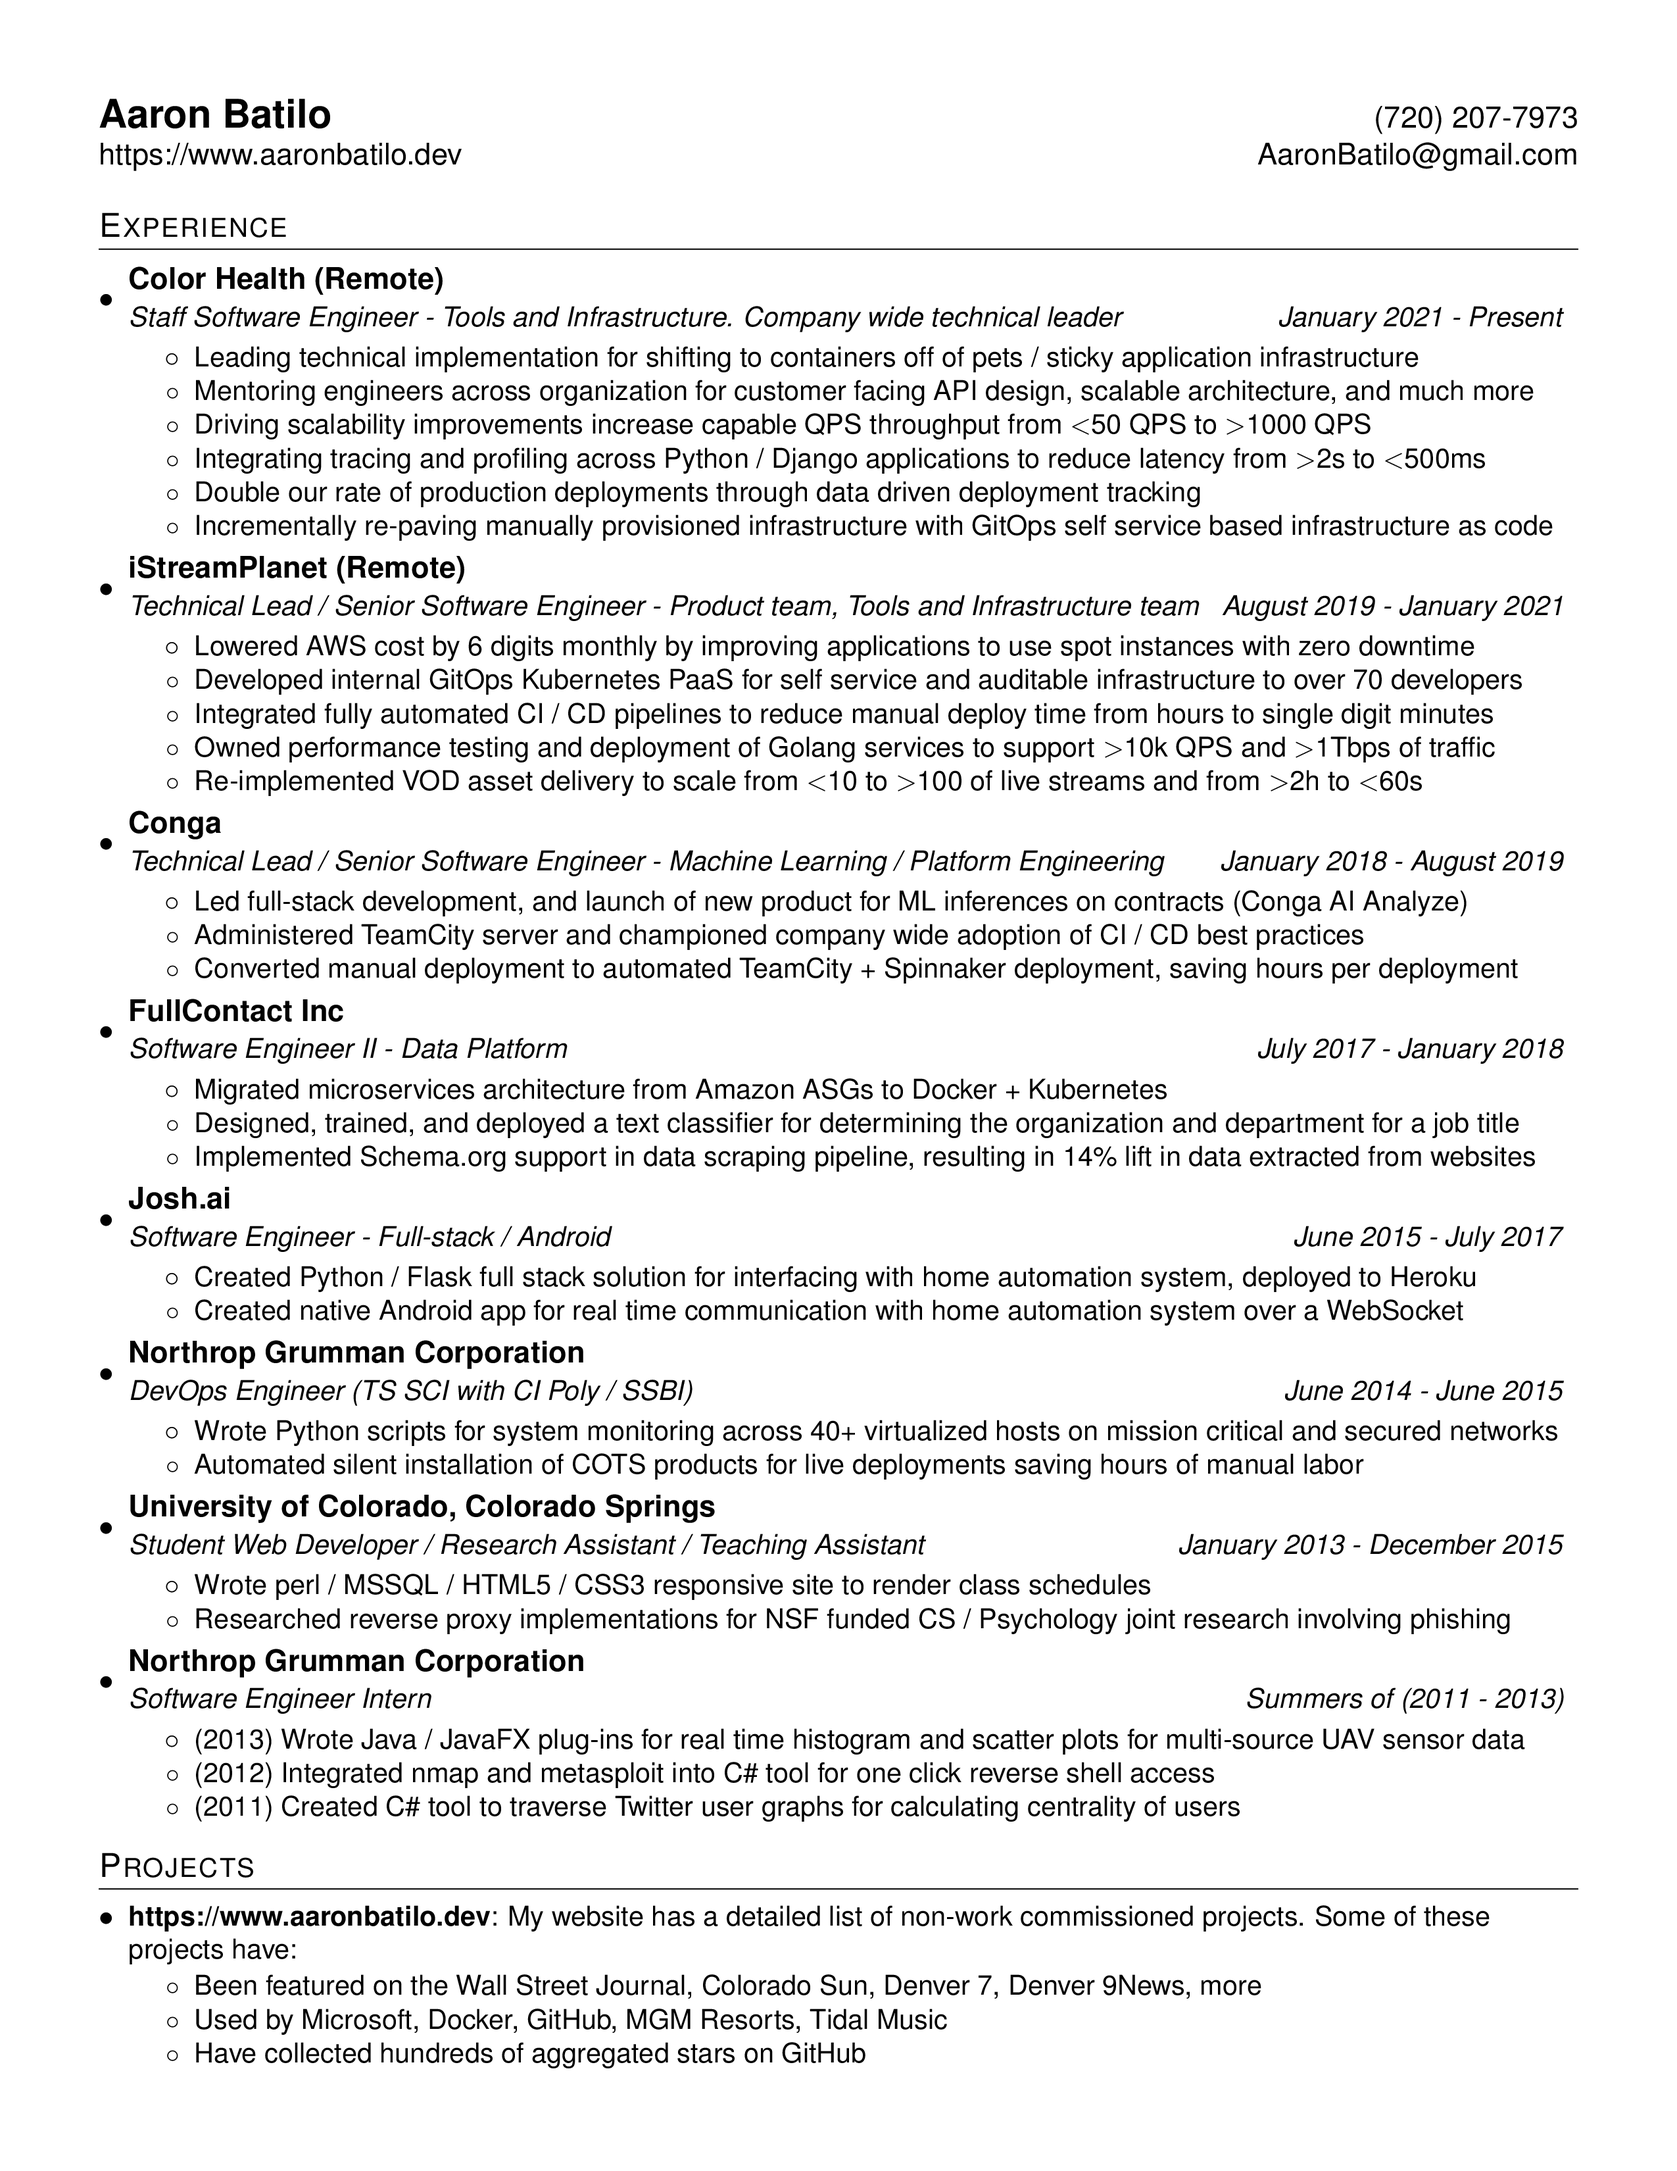
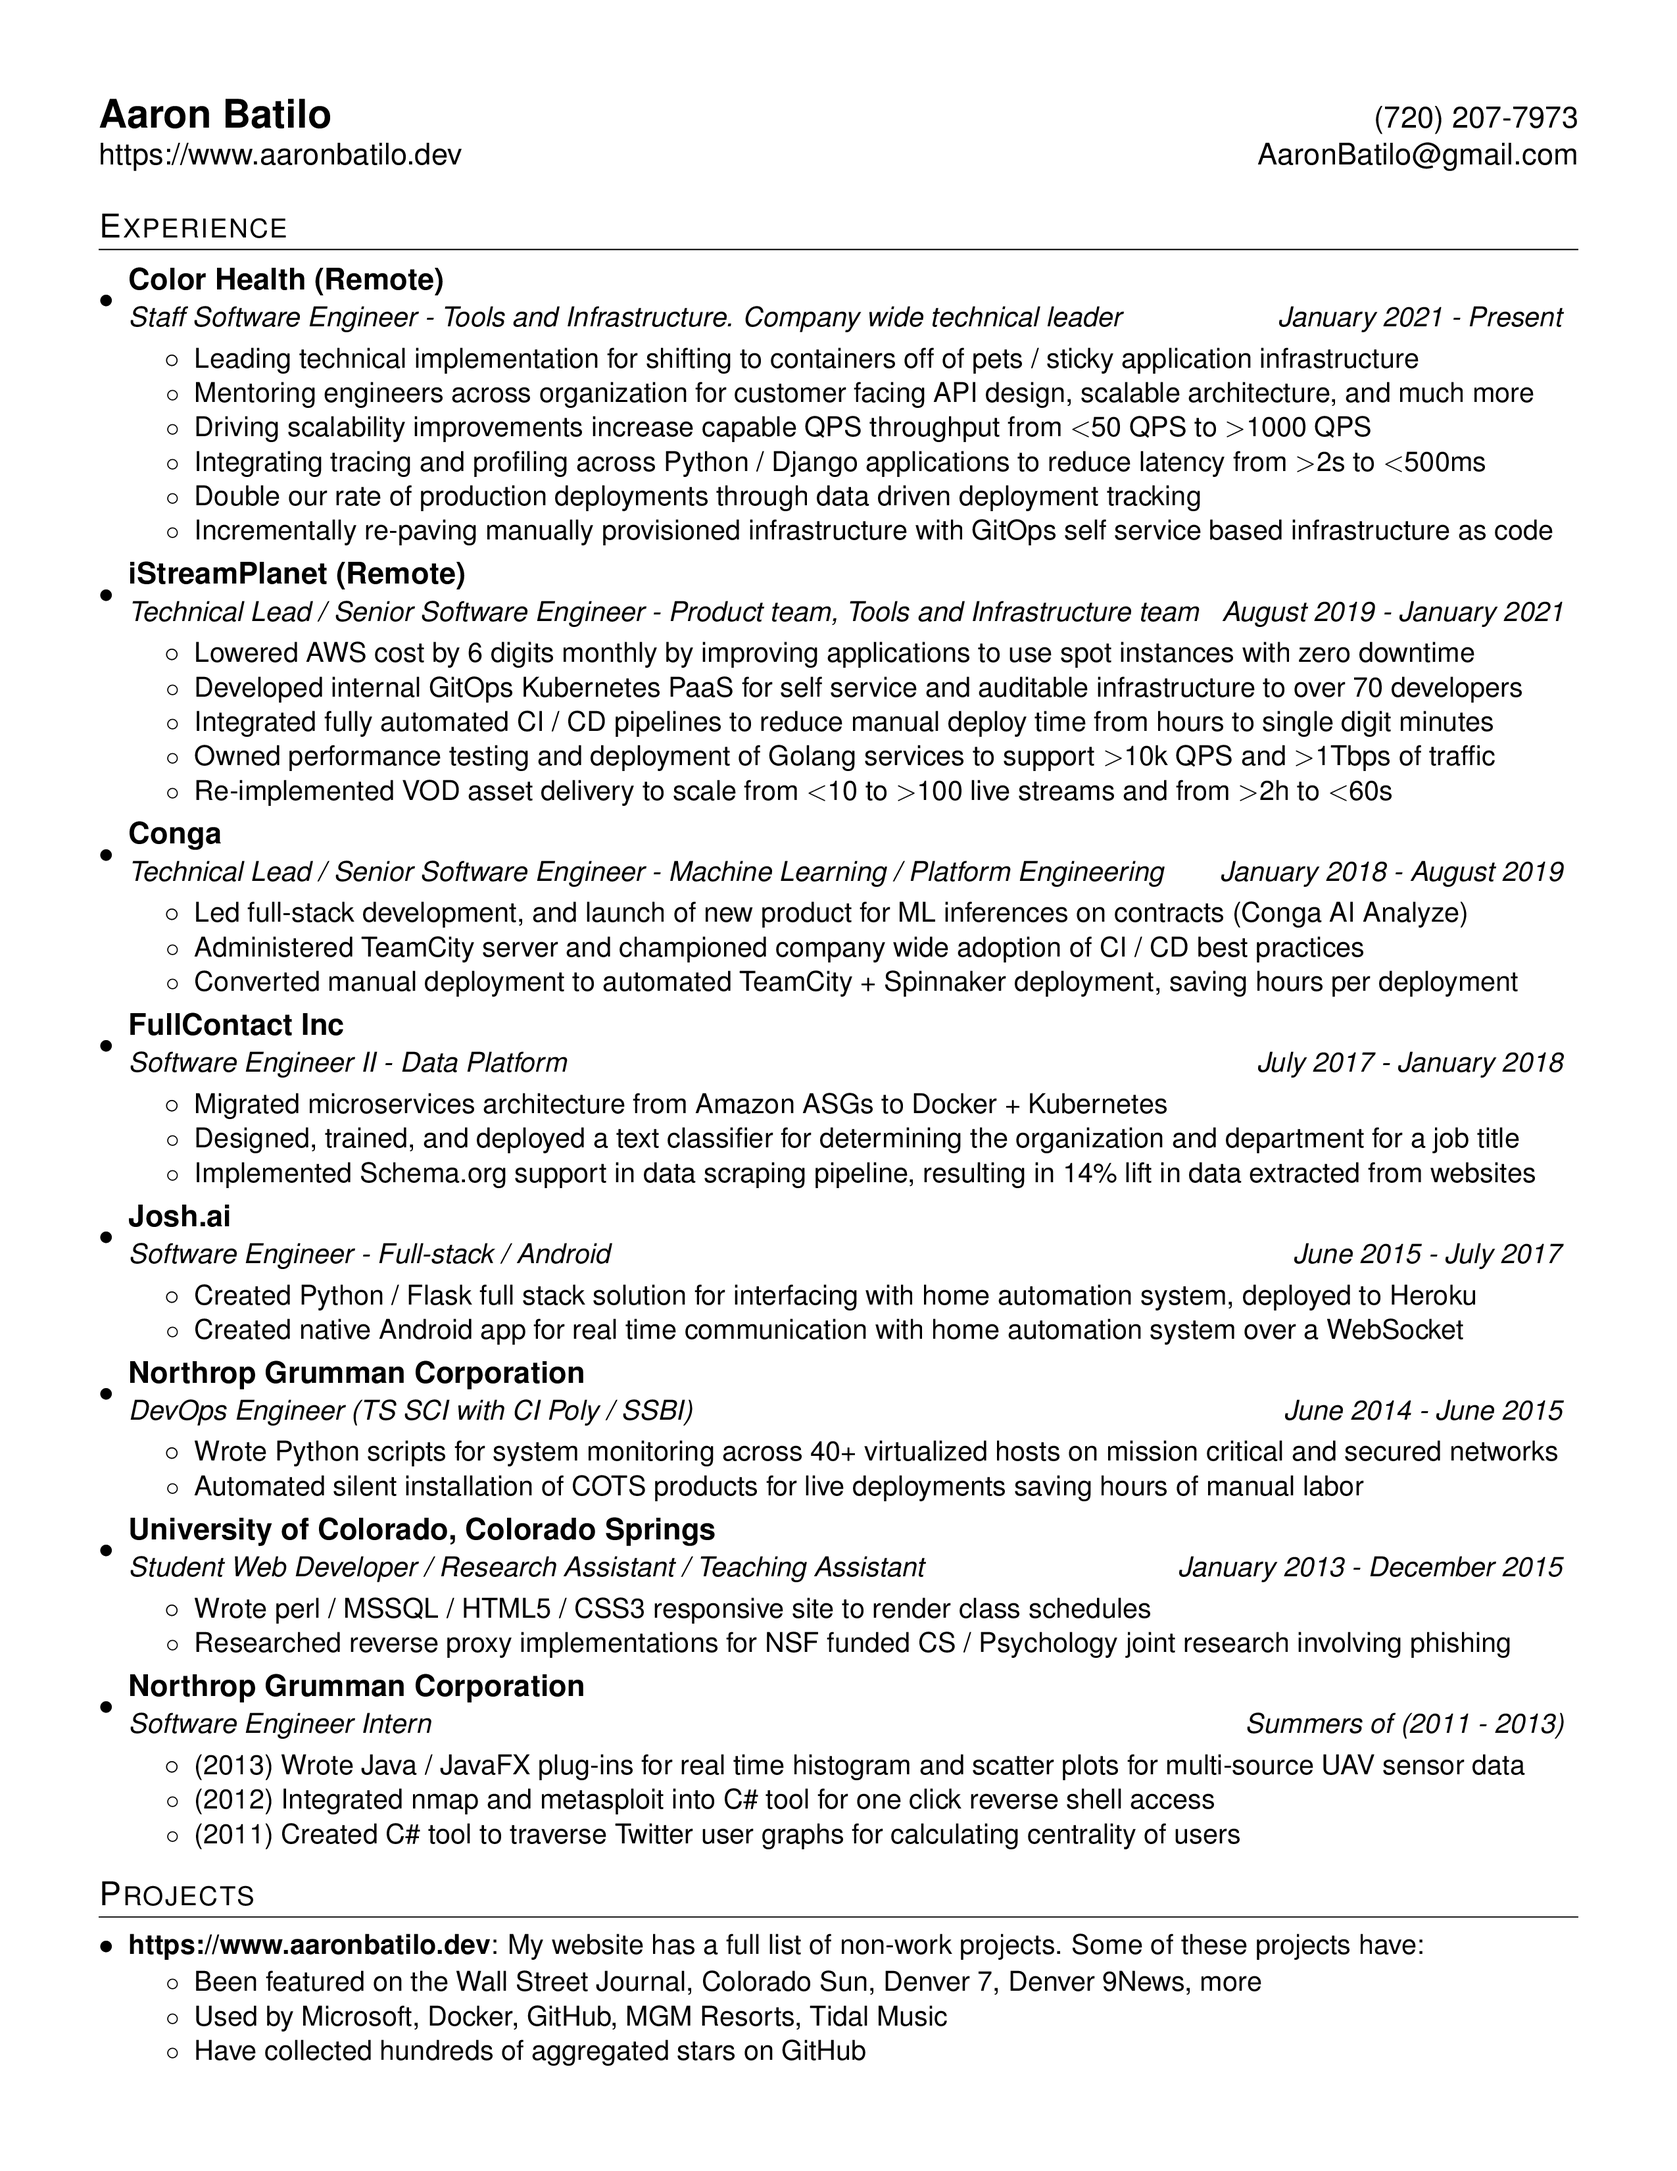
Rephrase projects section

Changed region(s): [[0.062, 0.1561, 0.9294, 0.9676], [0.062, 0.0936, 0.0929, 0.1248]]

diff --git a/resume.tex b/resume.tex
@@ -173,7 +173,7 @@
 \section{Projects}
   \resumeSubHeadingListStart
   \resumeSubItem{\href{https://www.aaronbatilo.dev}{https://www.aaronbatilo.dev}}
-    {My website has a detailed list of non-work commissioned projects. Some of these projects have:}
+    {My website has a full list of non-work projects. Some of these projects have:}
       \resumeItemListStart
         \resumeItemNoBold{Been featured on the Wall Street Journal, Colorado Sun, Denver 7, Denver 9News, more}
         \resumeItemNoBold{Used by Microsoft, Docker, GitHub, MGM Resorts, Tidal Music}
